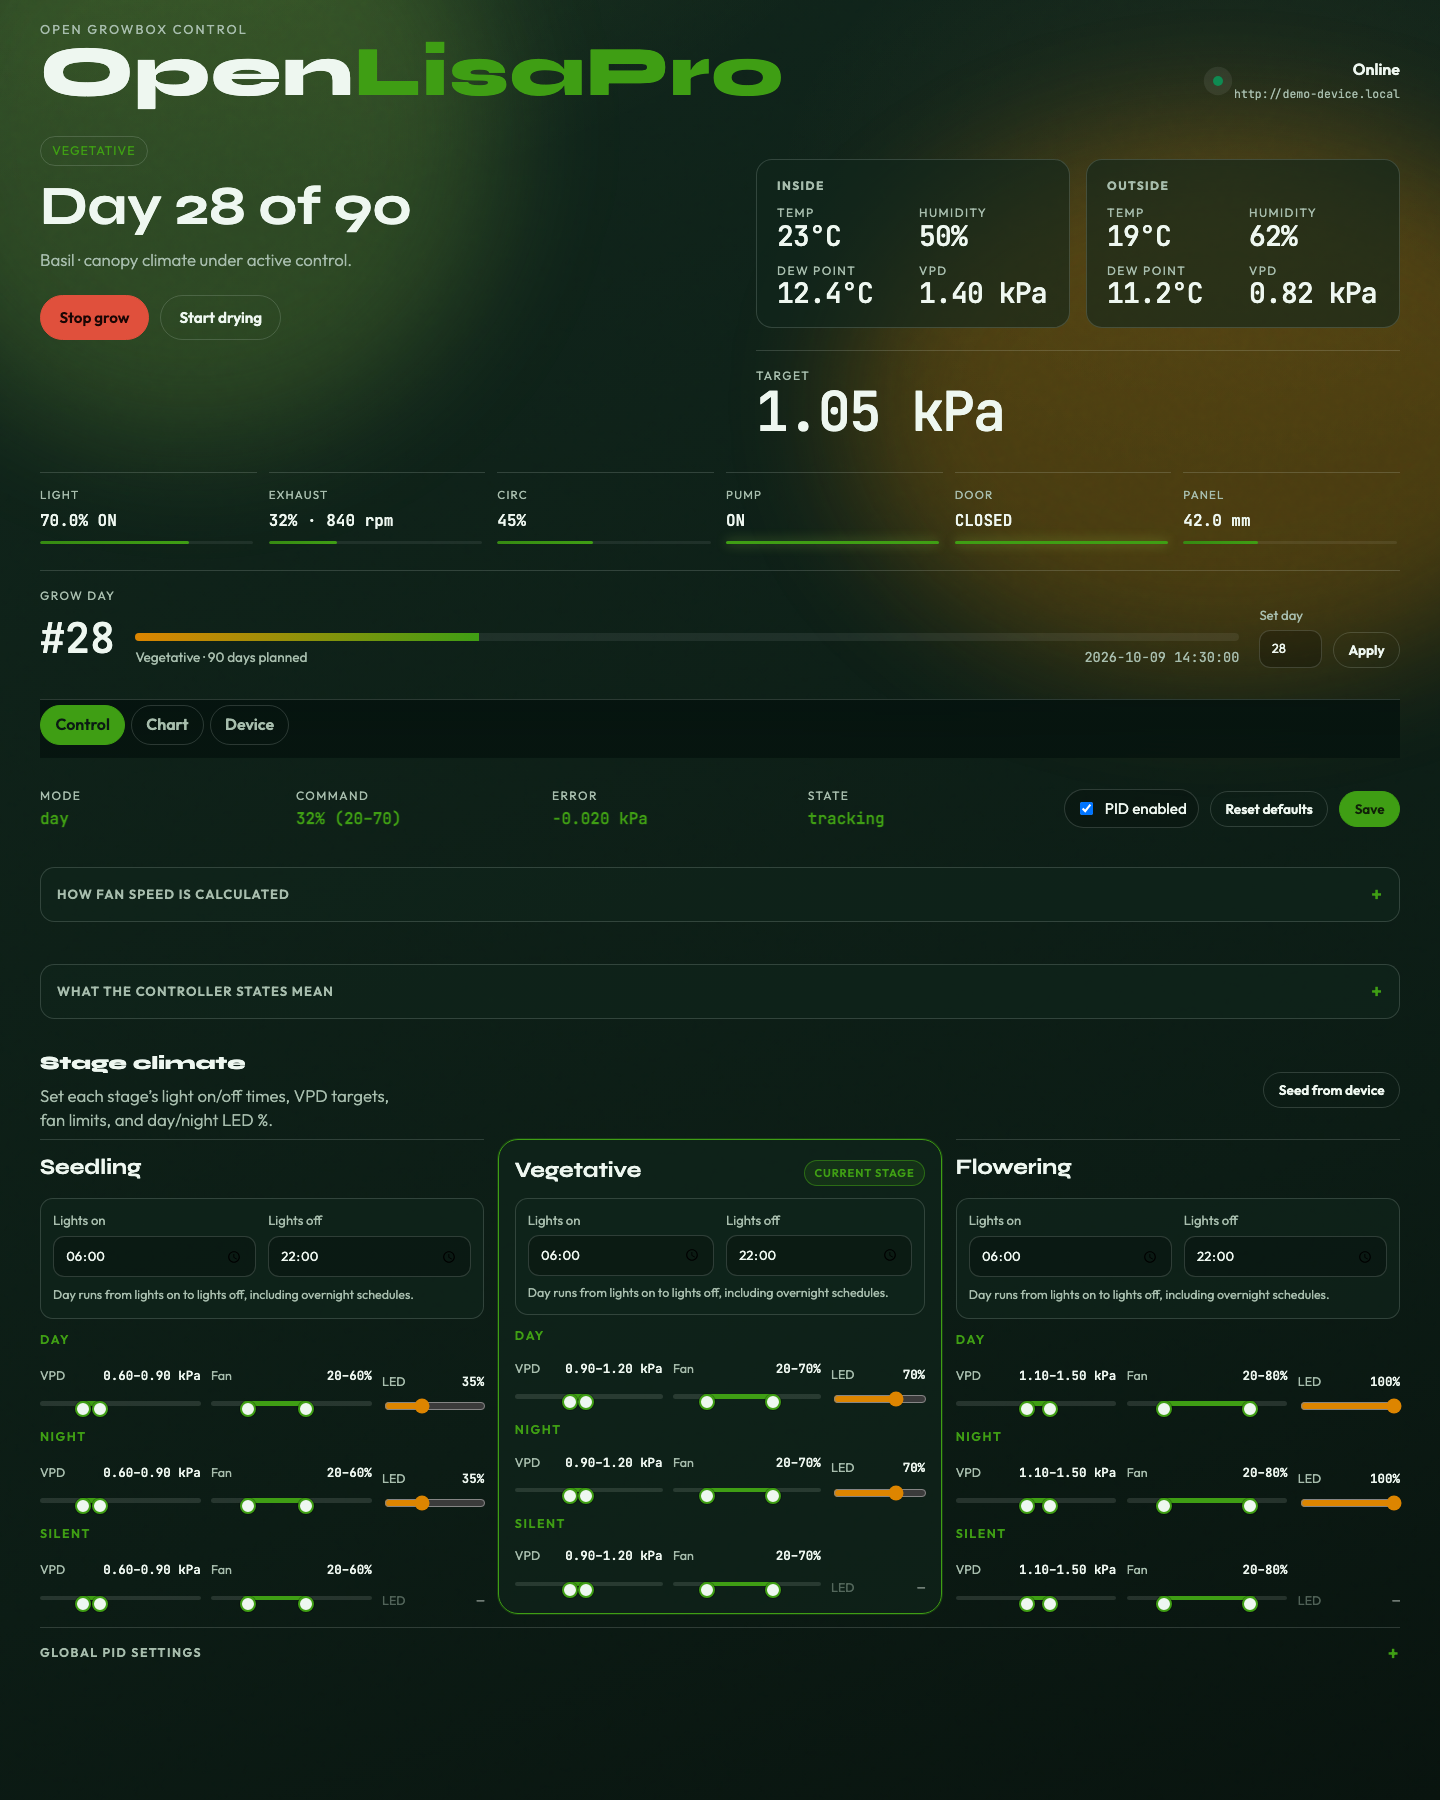
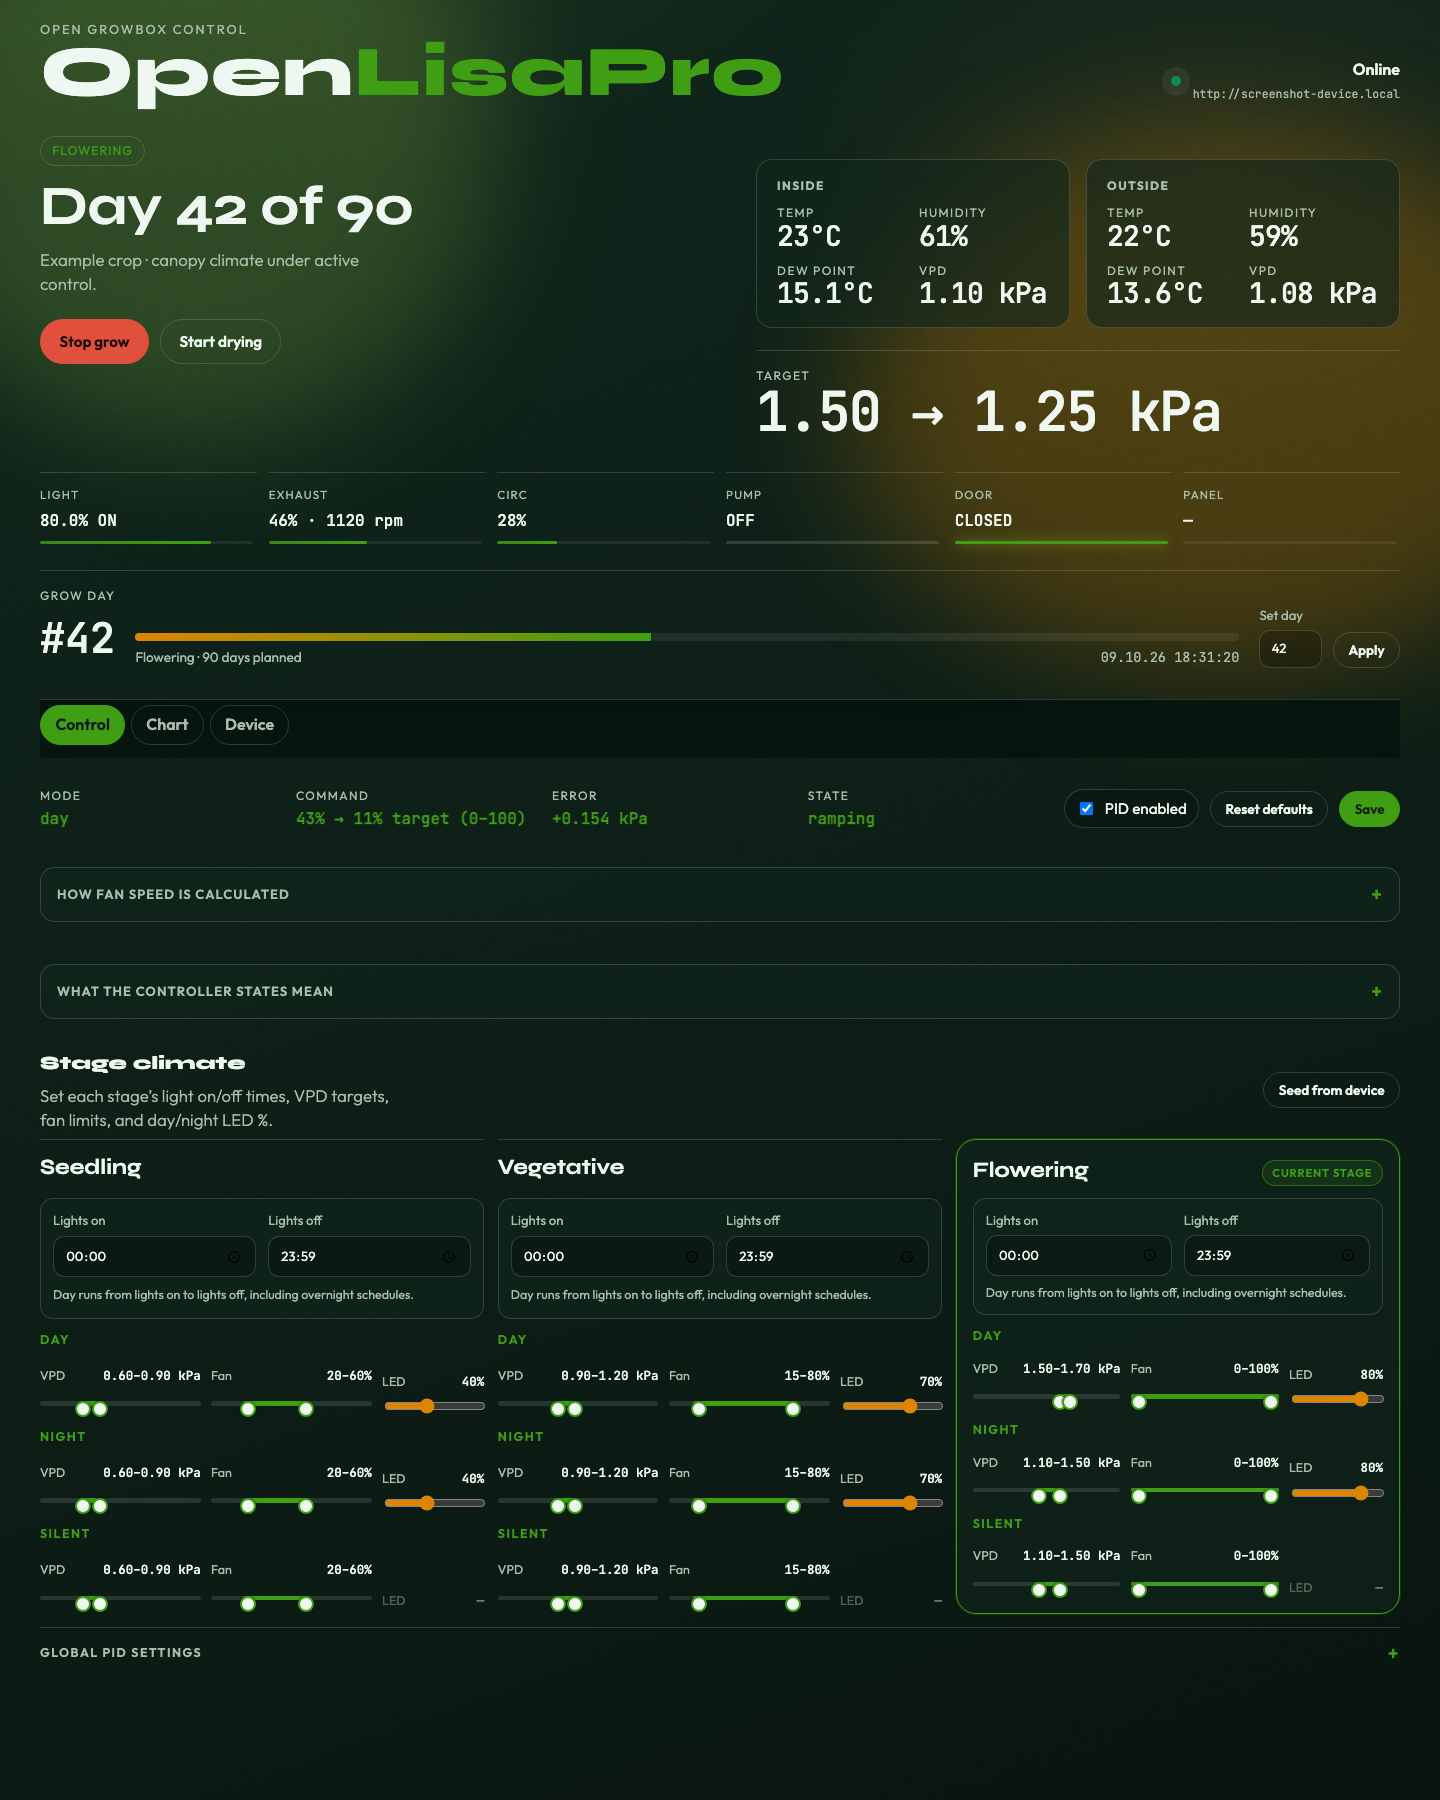
Document dew-point ventilation limit with screenshots

diff --git a/README.md b/README.md
@@ -8,7 +8,7 @@ The web app runs on your own computer or server. It talks to the growbox over it
 
 - Shows inside and outside temperature, relative humidity, dew point, and VPD, along with the current grow stage and device status.
 - Lets you manage stage-specific VPD targets, fan limits, LED levels, and light-on/light-off schedules for day and night modes.
-- Runs an optional local PID controller for exhaust fan speed. It uses the inside VPD target and indoor dew point to determine a useful fan command, observes each stage's fan limits, and ramps changes to avoid abrupt speed shifts.
+- Runs an optional local PID controller for exhaust fan speed. It uses inside VPD as the control goal, estimates the ventilation limit from outside dew point at inside temperature, observes each stage's fan limits, and ramps changes to avoid abrupt speed shifts.
 - Displays the controller's current mode, status, and ramp target, with an expandable explanation of the calculation and its states.
 - Provides a chart of recent climate and fan history, and controls for growbox settings such as silent operation, door actions, and MQTT.
 - Includes `LisaProClient`, a small typed Python wrapper for the growbox API.
@@ -17,7 +17,7 @@ The UI can be viewed on desktop or mobile. The PID loop can write fan settings t
 
 ## Screenshots
 
-These screenshots use representative sample data and show the dashboard at desktop and mobile widths.
+These screenshots use mock device data and show the dashboard at desktop and mobile widths. The example has a requested VPD target of 1.50 kPa; outside dew point limits the ventilation-achievable target to 1.25 kPa, so the fan command ramps down instead of chasing an unreachable target. The mock server does not connect to a growbox.
 
 ![OpenLisaPro dashboard at desktop width](docs/screenshots/dashboard-desktop.png)
 
@@ -66,6 +66,12 @@ HOST=127.0.0.1 PORT=5050 LISA_PRO_URL=http://192.168.1.50 uv run lisa-pro-ui
 Open the **Control** tab to configure per-stage VPD targets and fan limits. The **Chart** tab shows recent history, and the **Device** tab contains growbox settings. PID tuning settings are collapsed by default. Expand them to adjust the gains, ramp rate, update interval, and deadband.
 
 Enable local PID control to let OpenLisaPro command the exhaust fan. The live status shows the current fan command; while it is ramping, it also shows the target speed. The configured light-on and light-off times for the active stage determine whether the controller uses day or night settings. The LEDs' current on/off state does not define the scheduled day/night mode.
+
+### VPD target and outside dew point
+
+Inside VPD remains the PID control goal because it reflects the current conditions around the plants. The controller also estimates the highest VPD ventilation can produce using outside dew point. Dew point represents incoming-air moisture content; the controller evaluates it at the inside temperature so that outside and inside VPD are compared at the same temperature. When the requested target is above this estimate, the PID uses the achievable limit and the dashboard shows both values.
+
+For example, outside air at 22°C and 59% RH has a dew point near 13.6°C. At an inside temperature of 23°C, that moisture level corresponds to about 1.25 kPa VPD. A requested target of 1.50 kPa is therefore limited to about 1.25 kPa for ventilation control. This is an estimate of what ventilation alone can achieve; moisture produced inside the grow space can reduce the actual result.
 
 The **Reset defaults** action restores local control defaults and the growbox's factory phase presets. Stage and device settings may be written to the connected hardware when you save or reset them.
 
